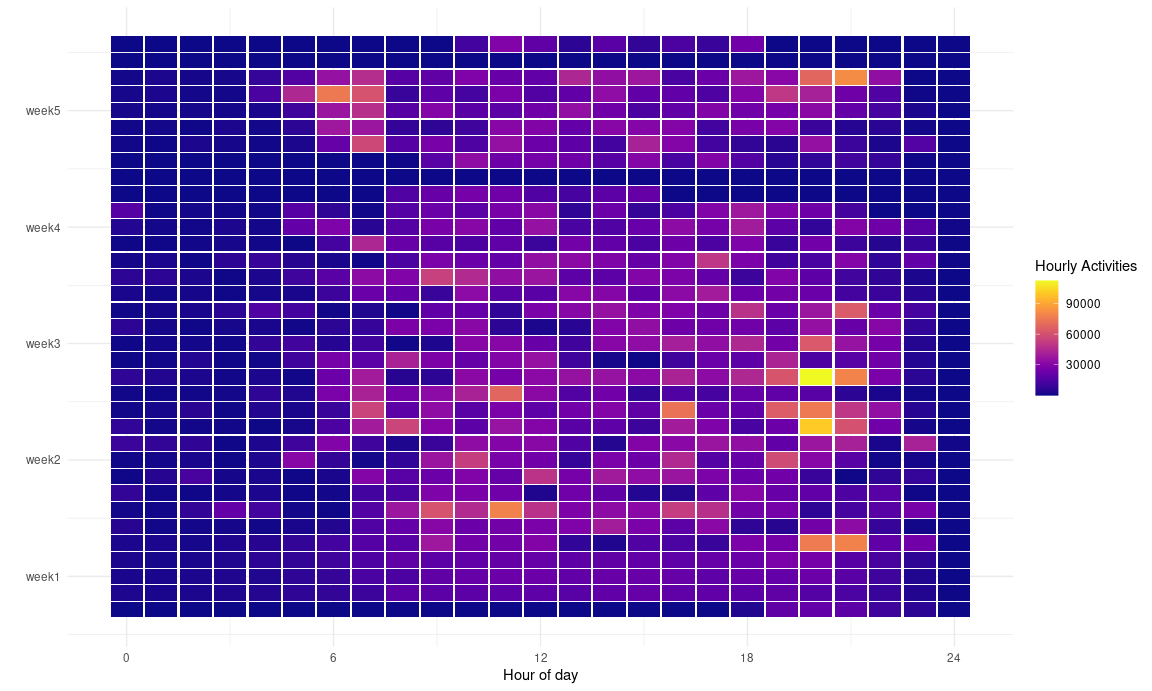
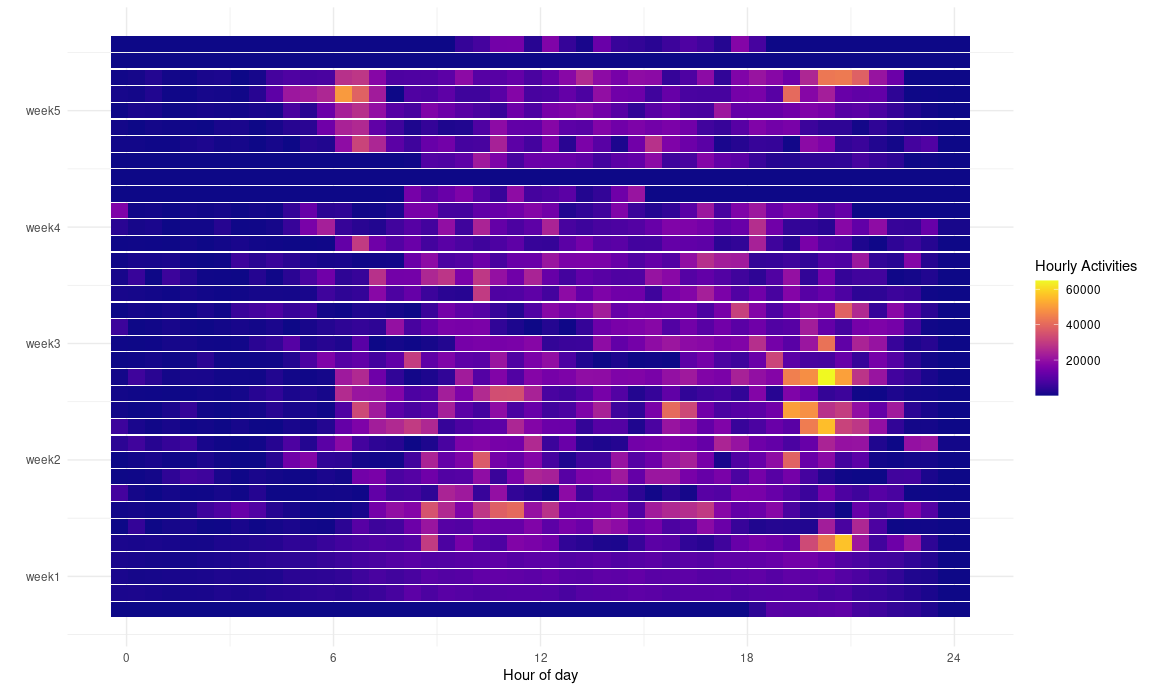
set the hr interval to .5

diff --git a/P8105_hw3_zl2974.md b/P8105_hw3_zl2974.md
@@ -169,10 +169,10 @@ accelerometer =
   arrange(day,.by_group=T) %>% 
   group_by(day_id) %>% 
   mutate(min_week = 1,
-         hour_day = cumsum(min_week)%/%60) %>% 
+         hour_day = cumsum(min_week)%/%30/2) %>% 
   ungroup(day_id) %>% 
   mutate(min_week=cumsum(min_week),
-         hour_week = min_week%/%60) %>% 
+         hour_week = min_week%/%30/2) %>% 
   ungroup() %>% 
   select(-day_id) %>% 
   left_join(
@@ -209,7 +209,7 @@ str(accelerometer)
     ##  $ day_id            : num [1:50400] 1 1 1 1 1 1 1 1 1 1 ...
 
 ``` r
-skimr::skim(accelerometer)
+skimr::skim_without_charts(accelerometer)
 ```
 
 |                                                  |               |
@@ -236,14 +236,14 @@ Data summary
 
 **Variable type: numeric**
 
-| skim\_variable | n\_missing | complete\_rate |     mean |       sd | p0 |      p25 |     p50 |      p75 |  p100 | hist  |
-| :------------- | ---------: | -------------: | -------: | -------: | -: | -------: | ------: | -------: | ----: | :---- |
-| min            |          0 |              1 |   720.50 |   415.70 |  1 |   360.75 |   720.5 |  1080.25 |  1440 | ▇▇▇▇▇ |
-| activity       |          0 |              1 |   267.04 |   443.16 |  1 |     1.00 |    74.0 |   364.00 |  8982 | ▇▁▁▁▁ |
-| min\_week      |          0 |              1 | 25200.50 | 14549.37 |  1 | 12600.75 | 25200.5 | 37800.25 | 50400 | ▇▇▇▇▇ |
-| hour\_day      |          0 |              1 |    11.52 |     6.92 |  0 |     6.00 |    12.0 |    18.00 |    24 | ▇▇▇▇▆ |
-| hour\_week     |          0 |              1 |   419.52 |   242.49 |  0 |   210.00 |   420.0 |   630.00 |   840 | ▇▇▇▇▇ |
-| day\_id        |          0 |              1 |    18.00 |    10.10 |  1 |     9.00 |    18.0 |    27.00 |    35 | ▇▇▇▇▇ |
+| skim\_variable | n\_missing | complete\_rate |     mean |       sd | p0 |      p25 |     p50 |      p75 |  p100 |
+| :------------- | ---------: | -------------: | -------: | -------: | -: | -------: | ------: | -------: | ----: |
+| min            |          0 |              1 |   720.50 |   415.70 |  1 |   360.75 |   720.5 |  1080.25 |  1440 |
+| activity       |          0 |              1 |   267.04 |   443.16 |  1 |     1.00 |    74.0 |   364.00 |  8982 |
+| min\_week      |          0 |              1 | 25200.50 | 14549.37 |  1 | 12600.75 | 25200.5 | 37800.25 | 50400 |
+| hour\_day      |          0 |              1 |    11.77 |     6.93 |  0 |     6.00 |    12.0 |    18.00 |    24 |
+| hour\_week     |          0 |              1 |   419.77 |   242.49 |  0 |   210.00 |   420.0 |   630.00 |   840 |
+| day\_id        |          0 |              1 |    18.00 |    10.10 |  1 |     9.00 |    18.0 |    27.00 |    35 |
 
  The original data is a “wider” format data with 35 x 1443 dimension. In
 order to make the data compatible with machine, pivot\_long() is used to
@@ -307,17 +307,18 @@ accelerometer %>%
                               name = "Hourly Activities")
 ```
 
-    ## `summarise()` regrouping output by 'week', 'day_id' (override with `.groups` argument)
-
 <img src="P8105_hw3_zl2974_files/figure-gfm/activity_plot-1.png" width="90%" />
 
 # Problem 3
 
 ``` r
-data("ny_noaa")
+read_ny_noaa = function(){
+ny_noaa_tidy = read_csv(here::here("data/ny_noaa_tidy.csv"))
 tryCatch(
-  {ny_noaa_tidy = read_csv(here::here("data/ny_noaa_tidy.csv"))},
+  {is.tibble(ny_noaa_tidy)},
   error ={
+    print("Can't load data")
+    data("ny_noaa")
     ny_noaa_tidy = ny_noaa %>% 
     separate(date,
              into=c("year","month","day"),sep="-") %>%
@@ -325,7 +326,11 @@ tryCatch(
     mutate(
       snow = case_when(
       snow <0 ~0))
-  write_csv(ny_noaa_tidy,here::here("data/ny_noaa_tidy.csv"))})
+  #write_csv(ny_noaa_tidy,here::here("data/ny_noaa_tidy.csv"))
+    })
+return(ny_noaa_tidy)
+}
+ny_noaa_tidy = read_ny_noaa()
 skimr::skim(ny_noaa_tidy)
 ```
 
